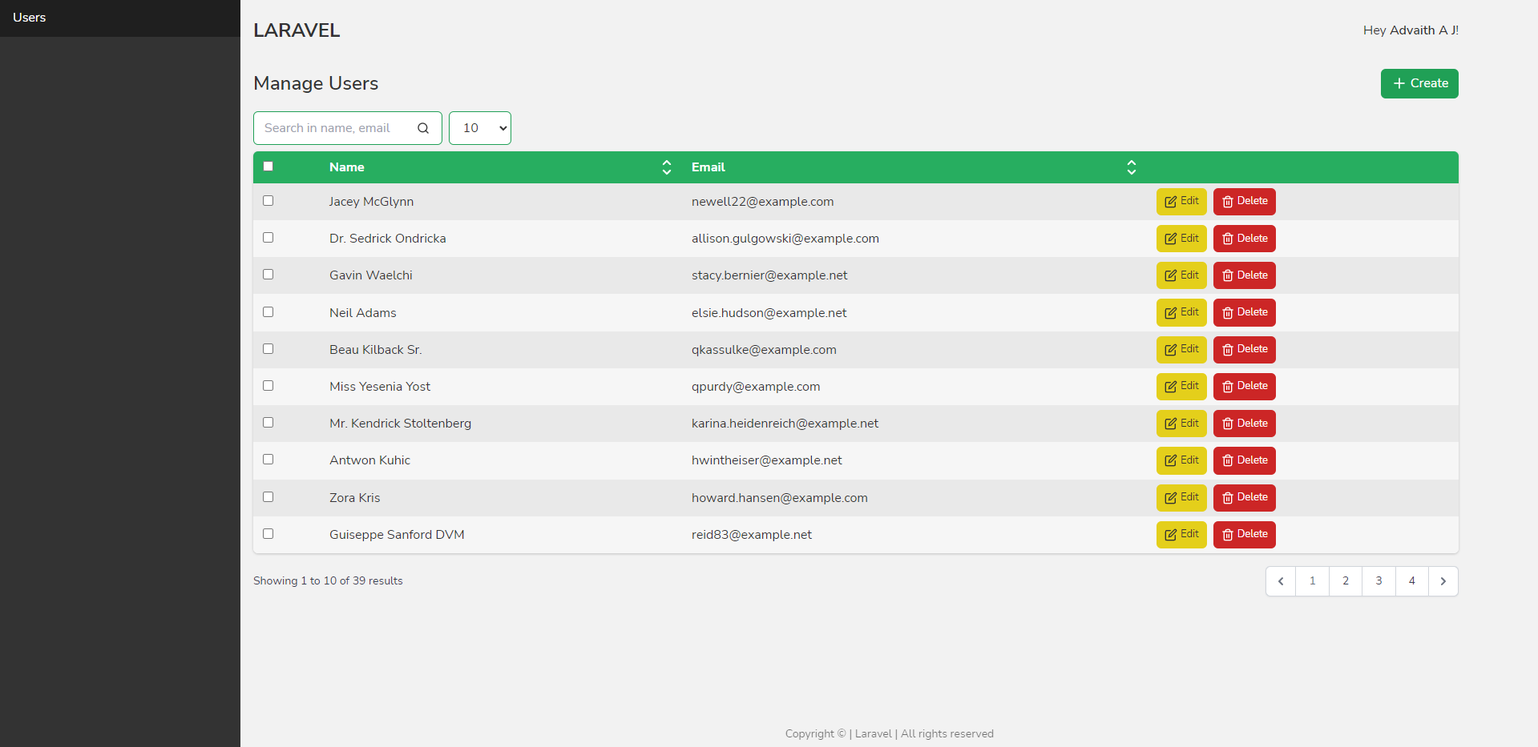
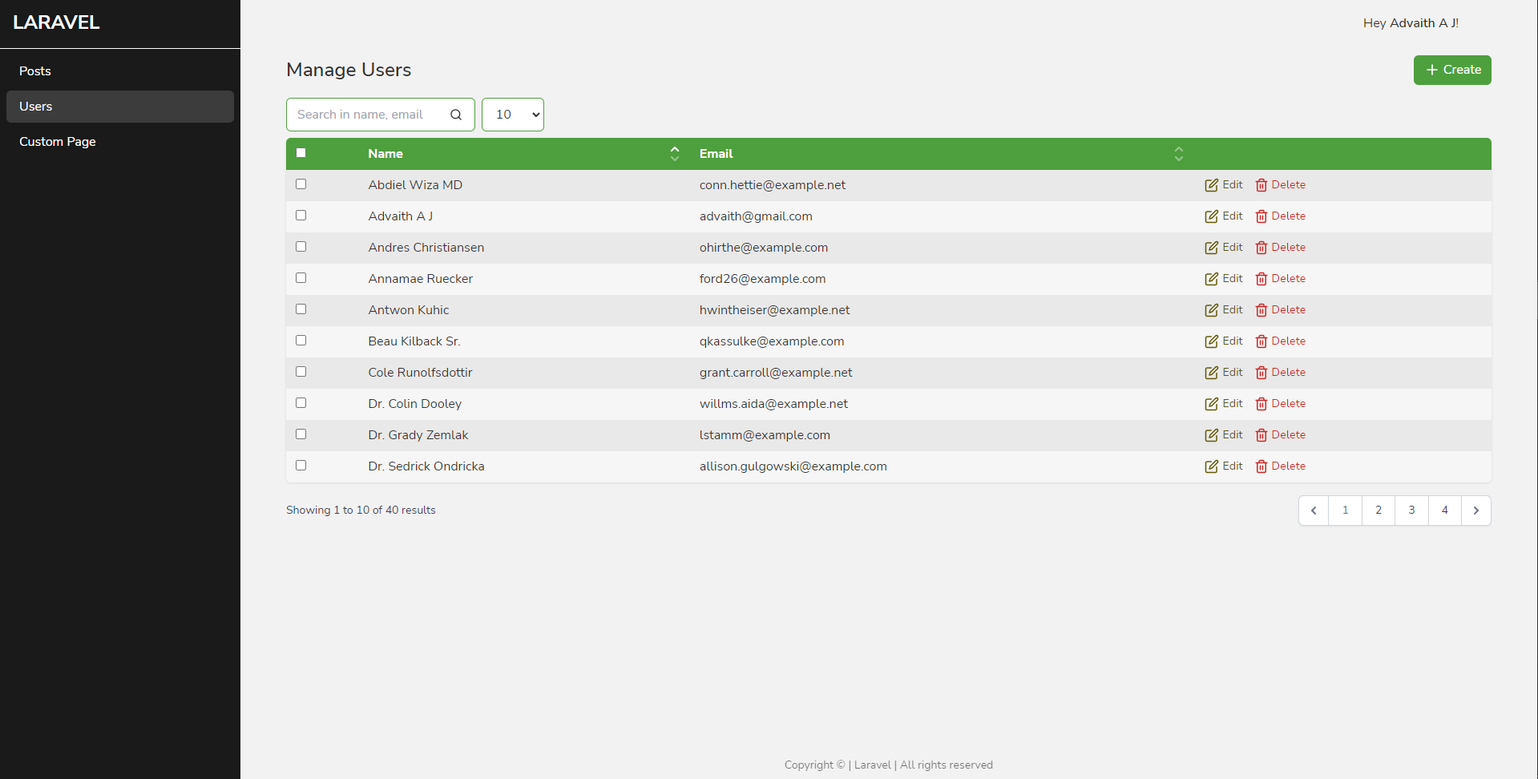
ui update

diff --git a/src/resources/assets/css/app.css b/src/resources/assets/css/app.css
@@ -1,1 +1,1 @@
-/*! tailwindcss v3.0.23 | MIT License | https://tailwindcss.com*/*,:after,:before{border:0 solid #e5e7eb;box-sizing:border-box}:after,:before{--tw-content:""}html{-webkit-text-size-adjust:100%;font-family:ui-sans-serif,system-ui,-apple-system,BlinkMacSystemFont,Segoe UI,Roboto,Helvetica Neue,Arial,Noto Sans,sans-serif,Apple Color Emoji,Segoe UI Emoji,Segoe UI Symbol,Noto Color Emoji;line-height:1.5;-moz-tab-size:4;-o-tab-size:4;tab-size:4}body{line-height:inherit;margin:0}hr{border-top-width:1px;color:inherit;height:0}abbr:where([title]){-webkit-text-decoration:underline dotted;text-decoration:underline dotted}h1,h2,h3,h4,h5,h6{font-size:inherit;font-weight:inherit}a{color:inherit;text-decoration:inherit}b,strong{font-weight:bolder}code,kbd,pre,samp{font-family:ui-monospace,SFMono-Regular,Menlo,Monaco,Consolas,Liberation Mono,Courier New,monospace;font-size:1em}small{font-size:80%}sub,sup{font-size:75%;line-height:0;position:relative;vertical-align:baseline}sub{bottom:-.25em}sup{top:-.5em}table{border-collapse:collapse;border-color:inherit;text-indent:0}button,input,optgroup,select,textarea{color:inherit;font-family:inherit;font-size:100%;line-height:inherit;margin:0;padding:0}button,select{text-transform:none}[type=button],[type=reset],[type=submit],button{-webkit-appearance:button;background-color:transparent;background-image:none}:-moz-focusring{outline:auto}:-moz-ui-invalid{box-shadow:none}progress{vertical-align:baseline}::-webkit-inner-spin-button,::-webkit-outer-spin-button{height:auto}[type=search]{-webkit-appearance:textfield;outline-offset:-2px}::-webkit-search-decoration{-webkit-appearance:none}::-webkit-file-upload-button{-webkit-appearance:button;font:inherit}summary{display:list-item}blockquote,dd,dl,figure,h1,h2,h3,h4,h5,h6,hr,p,pre{margin:0}fieldset{margin:0}fieldset,legend{padding:0}menu,ol,ul{list-style:none;margin:0;padding:0}textarea{resize:vertical}input::-moz-placeholder,textarea::-moz-placeholder{color:#9ca3af;opacity:1}input:-ms-input-placeholder,textarea:-ms-input-placeholder{color:#9ca3af;opacity:1}input::placeholder,textarea::placeholder{color:#9ca3af;opacity:1}[role=button],button{cursor:pointer}:disabled{cursor:default}audio,canvas,embed,iframe,img,object,svg,video{display:block;vertical-align:middle}img,video{height:auto;max-width:100%}[hidden]{display:none}*,:after,:before{--tw-translate-x:0;--tw-translate-y:0;--tw-rotate:0;--tw-skew-x:0;--tw-skew-y:0;--tw-scale-x:1;--tw-scale-y:1;--tw-pan-x: ;--tw-pan-y: ;--tw-pinch-zoom: ;--tw-scroll-snap-strictness:proximity;--tw-ordinal: ;--tw-slashed-zero: ;--tw-numeric-figure: ;--tw-numeric-spacing: ;--tw-numeric-fraction: ;--tw-ring-inset: ;--tw-ring-offset-width:0px;--tw-ring-offset-color:#fff;--tw-ring-color:rgba(59,130,246,.5);--tw-ring-offset-shadow:0 0 #0000;--tw-ring-shadow:0 0 #0000;--tw-shadow:0 0 #0000;--tw-shadow-colored:0 0 #0000;--tw-blur: ;--tw-brightness: ;--tw-contrast: ;--tw-grayscale: ;--tw-hue-rotate: ;--tw-invert: ;--tw-saturate: ;--tw-sepia: ;--tw-drop-shadow: ;--tw-backdrop-blur: ;--tw-backdrop-brightness: ;--tw-backdrop-contrast: ;--tw-backdrop-grayscale: ;--tw-backdrop-hue-rotate: ;--tw-backdrop-invert: ;--tw-backdrop-opacity: ;--tw-backdrop-saturate: ;--tw-backdrop-sepia: }.container{width:100%}@media (min-width:640px){.container{max-width:640px}}@media (min-width:768px){.container{max-width:768px}}@media (min-width:1024px){.container{max-width:1024px}}@media (min-width:1280px){.container{max-width:1280px}}@media (min-width:1536px){.container{max-width:1536px}}.absolute{position:absolute}.relative{position:relative}.top-full{top:100%}.left-0{left:0}.z-0{z-index:0}.col-span-2{grid-column:span 2/span 2}.my-8{margin-bottom:2rem;margin-top:2rem}.my-2{margin-bottom:.5rem}.mt-2,.my-2{margin-top:.5rem}.mb-1{margin-bottom:.25rem}.mt-4{margin-top:1rem}.ml-4{margin-left:1rem}.mr-2{margin-right:.5rem}.mb-2{margin-bottom:.5rem}.mb-4{margin-bottom:1rem}.mt-1{margin-top:.25rem}.ml-3{margin-left:.75rem}.-ml-px{margin-left:-1px}.flex{display:flex}.inline-flex{display:inline-flex}.table{display:table}.grid{display:grid}.hidden{display:none}.h-5{height:1.25rem}.max-h-48{max-height:12rem}.w-full{width:100%}.w-5{width:1.25rem}.flex-1{flex:1 1 0%}.cursor-default{cursor:default}.cursor-pointer{cursor:pointer}.list-inside{list-style-position:inside}.list-decimal{list-style-type:decimal}.grid-cols-2{grid-template-columns:repeat(2,minmax(0,1fr))}.grid-cols-1{grid-template-columns:repeat(1,minmax(0,1fr))}.flex-col{flex-direction:column}.items-center{align-items:center}.justify-end{justify-content:flex-end}.justify-between{justify-content:space-between}.justify-items-center{justify-items:center}.gap-2{gap:.5rem}.gap-1{gap:.25rem}.overflow-auto{overflow:auto}.rounded{border-radius:.25rem}.rounded-md{border-radius:.375rem}.rounded-l-md{border-bottom-left-radius:.375rem;border-top-left-radius:.375rem}.rounded-r-md{border-bottom-right-radius:.375rem;border-top-right-radius:.375rem}.border{border-width:1px}.border-gray-300{--tw-border-opacity:1;border-color:rgb(209 213 219/var(--tw-border-opacity))}.bg-white{--tw-bg-opacity:1;background-color:rgb(255 255 255/var(--tw-bg-opacity))}.p-1{padding:.25rem}.p-2{padding:.5rem}.py-2{padding-bottom:.5rem;padding-top:.5rem}.px-4{padding-left:1rem;padding-right:1rem}.py-6{padding-bottom:1.5rem;padding-top:1.5rem}.px-2{padding-left:.5rem;padding-right:.5rem}.text-center{text-align:center}.text-4xl{font-size:2.25rem;line-height:2.5rem}.text-xl{font-size:1.25rem;line-height:1.75rem}.text-2xl{font-size:1.5rem;line-height:2rem}.text-sm{font-size:.875rem;line-height:1.25rem}.font-semibold{font-weight:600}.font-bold{font-weight:700}.font-medium{font-weight:500}.uppercase{text-transform:uppercase}.leading-5{line-height:1.25rem}.text-gray-500{--tw-text-opacity:1;color:rgb(107 114 128/var(--tw-text-opacity))}.text-gray-700{--tw-text-opacity:1;color:rgb(55 65 81/var(--tw-text-opacity))}.opacity-70{opacity:.7}.opacity-60{opacity:.6}.shadow{--tw-shadow:0 1px 3px 0 rgba(0,0,0,.1),0 1px 2px -1px rgba(0,0,0,.1);--tw-shadow-colored:0 1px 3px 0 var(--tw-shadow-color),0 1px 2px -1px var(--tw-shadow-color)}.shadow,.shadow-sm{box-shadow:var(--tw-ring-offset-shadow,0 0 #0000),var(--tw-ring-shadow,0 0 #0000),var(--tw-shadow)}.shadow-sm{--tw-shadow:0 1px 2px 0 rgba(0,0,0,.05);--tw-shadow-colored:0 1px 2px 0 var(--tw-shadow-color)}.ring-gray-300{--tw-ring-opacity:1;--tw-ring-color:rgb(209 213 219/var(--tw-ring-opacity))}.transition{transition-property:color,background-color,border-color,fill,stroke,opacity,box-shadow,transform,filter,-webkit-text-decoration-color,-webkit-backdrop-filter;transition-property:color,background-color,border-color,text-decoration-color,fill,stroke,opacity,box-shadow,transform,filter,backdrop-filter;transition-property:color,background-color,border-color,text-decoration-color,fill,stroke,opacity,box-shadow,transform,filter,backdrop-filter,-webkit-text-decoration-color,-webkit-backdrop-filter;transition-timing-function:cubic-bezier(.4,0,.2,1)}.duration-150,.transition{transition-duration:.15s}.ease-in-out{transition-timing-function:cubic-bezier(.4,0,.2,1)}body{font-family:Nunito Sans,Segoe UI,sans-serif;line-height:1.5}h1,h2,h3,h4{line-height:1}[v-cloak]{display:none}:root{--seamless-sidebar-background:#333;--seamless-sidebar-color:#fff;--seamless-background:#f2f2f2;--seamless-color:#333}.btn{align-items:center;background:#20a056;border:none;border-radius:6px;color:#fff;cursor:pointer;display:flex;font-size:1rem;outline:none;padding:.4em .8em;transition:background .2s ease}.btn svg{display:inline-block;margin-right:4px;width:1.25em}.btn:focus,.btn:hover{background:#18763f}.btn.grey{background:#444;color:#fff}.btn.grey:focus,.btn.grey:hover{background:#2b2b2b}.btn.yellow{background:#e4cf1b;color:#333}.btn.yellow:focus,.btn.yellow:hover{background:#b6a616}.btn.red{background:#cc2626;color:#fff}.btn.red:focus,.btn.red:hover{background:#a11e1e}.btn.small{font-size:.8rem}.input{background:#fff;border:1px solid #20a056;border-radius:6px;height:100%;outline:none;padding:.5em .8em}.table{border-radius:6px;box-shadow:0 1px 3px rgba(0,0,0,.2);overflow:hidden;text-align:left;width:100%}.table tr td{background:#f6f6f6;cursor:pointer;transition:background .2s}.table tr:nth-of-type(odd) td{background:#e9e9e9}.table tr:hover td{background:#ddd}.table thead tr th{background:#27ae60;color:#fff;font-weight:900}.table td,.table th{padding:6px 12px}.search{position:relative}.search input{padding-right:34px}.search .icon{cursor:pointer;position:absolute;right:1rem;top:50%;transform:translateY(-50%)}.search .icon svg{width:16px}.sort{cursor:pointer}.sort svg{height:14px;width:14px}.sort svg.up{transform:translateY(1px) scale(1.2)}.sort svg.down{transform:translateY(-1px) scale(1.2)}.sort.down svg.up,.sort.light svg,.sort.up svg.down{opacity:.4}body{background:var(--seamless-background);color:var(--seamless-color);display:grid;grid-template-columns:300px 1fr;min-height:100vh}#main{display:flex;flex-direction:column}#footer{font-size:14px;margin-top:auto;opacity:.7;text-align:center}#sidebar{background:var(--seamless-sidebar-background);color:var(--seamless-sidebar-color);overflow-y:auto;position:-webkit-sticky;position:sticky;top:0}#sidebar ul a{display:flex;padding:.65rem 1rem;transition:background .25s ease;width:100%}#sidebar ul a:hover{background:rgba(0,0,0,.2)}#sidebar ul a.active{background:rgba(0,0,0,.4)}#sidebar ul li.blank{padding:.75rem 1rem}.hover\:bg-gray-200:hover{--tw-bg-opacity:1;background-color:rgb(229 231 235/var(--tw-bg-opacity))}.hover\:text-gray-500:hover{--tw-text-opacity:1;color:rgb(107 114 128/var(--tw-text-opacity))}.hover\:text-gray-400:hover{--tw-text-opacity:1;color:rgb(156 163 175/var(--tw-text-opacity))}.focus\:z-10:focus{z-index:10}.focus\:border-blue-300:focus{--tw-border-opacity:1;border-color:rgb(147 197 253/var(--tw-border-opacity))}.focus\:outline-none:focus{outline:2px solid transparent;outline-offset:2px}.focus\:ring:focus{--tw-ring-offset-shadow:var(--tw-ring-inset) 0 0 0 var(--tw-ring-offset-width) var(--tw-ring-offset-color);--tw-ring-shadow:var(--tw-ring-inset) 0 0 0 calc(3px + var(--tw-ring-offset-width)) var(--tw-ring-color);box-shadow:var(--tw-ring-offset-shadow),var(--tw-ring-shadow),var(--tw-shadow,0 0 #0000)}.active\:bg-gray-100:active{--tw-bg-opacity:1;background-color:rgb(243 244 246/var(--tw-bg-opacity))}.active\:text-gray-700:active{--tw-text-opacity:1;color:rgb(55 65 81/var(--tw-text-opacity))}.active\:text-gray-500:active{--tw-text-opacity:1;color:rgb(107 114 128/var(--tw-text-opacity))}@media (min-width:640px){.sm\:flex{display:flex}.sm\:hidden{display:none}.sm\:flex-1{flex:1 1 0%}.sm\:items-center{align-items:center}.sm\:justify-between{justify-content:space-between}}
+/*! tailwindcss v3.0.23 | MIT License | https://tailwindcss.com*/*,:after,:before{border:0 solid #e5e7eb;box-sizing:border-box}:after,:before{--tw-content:""}html{-webkit-text-size-adjust:100%;font-family:ui-sans-serif,system-ui,-apple-system,BlinkMacSystemFont,Segoe UI,Roboto,Helvetica Neue,Arial,Noto Sans,sans-serif,Apple Color Emoji,Segoe UI Emoji,Segoe UI Symbol,Noto Color Emoji;line-height:1.5;-moz-tab-size:4;-o-tab-size:4;tab-size:4}body{line-height:inherit;margin:0}hr{border-top-width:1px;color:inherit;height:0}abbr:where([title]){-webkit-text-decoration:underline dotted;text-decoration:underline dotted}h1,h2,h3,h4,h5,h6{font-size:inherit;font-weight:inherit}a{color:inherit;text-decoration:inherit}b,strong{font-weight:bolder}code,kbd,pre,samp{font-family:ui-monospace,SFMono-Regular,Menlo,Monaco,Consolas,Liberation Mono,Courier New,monospace;font-size:1em}small{font-size:80%}sub,sup{font-size:75%;line-height:0;position:relative;vertical-align:baseline}sub{bottom:-.25em}sup{top:-.5em}table{border-collapse:collapse;border-color:inherit;text-indent:0}button,input,optgroup,select,textarea{color:inherit;font-family:inherit;font-size:100%;line-height:inherit;margin:0;padding:0}button,select{text-transform:none}[type=button],[type=reset],[type=submit],button{-webkit-appearance:button;background-color:transparent;background-image:none}:-moz-focusring{outline:auto}:-moz-ui-invalid{box-shadow:none}progress{vertical-align:baseline}::-webkit-inner-spin-button,::-webkit-outer-spin-button{height:auto}[type=search]{-webkit-appearance:textfield;outline-offset:-2px}::-webkit-search-decoration{-webkit-appearance:none}::-webkit-file-upload-button{-webkit-appearance:button;font:inherit}summary{display:list-item}blockquote,dd,dl,figure,h1,h2,h3,h4,h5,h6,hr,p,pre{margin:0}fieldset{margin:0}fieldset,legend{padding:0}menu,ol,ul{list-style:none;margin:0;padding:0}textarea{resize:vertical}input::-moz-placeholder,textarea::-moz-placeholder{color:#9ca3af;opacity:1}input:-ms-input-placeholder,textarea:-ms-input-placeholder{color:#9ca3af;opacity:1}input::placeholder,textarea::placeholder{color:#9ca3af;opacity:1}[role=button],button{cursor:pointer}:disabled{cursor:default}audio,canvas,embed,iframe,img,object,svg,video{display:block;vertical-align:middle}img,video{height:auto;max-width:100%}[hidden]{display:none}*,:after,:before{--tw-translate-x:0;--tw-translate-y:0;--tw-rotate:0;--tw-skew-x:0;--tw-skew-y:0;--tw-scale-x:1;--tw-scale-y:1;--tw-pan-x: ;--tw-pan-y: ;--tw-pinch-zoom: ;--tw-scroll-snap-strictness:proximity;--tw-ordinal: ;--tw-slashed-zero: ;--tw-numeric-figure: ;--tw-numeric-spacing: ;--tw-numeric-fraction: ;--tw-ring-inset: ;--tw-ring-offset-width:0px;--tw-ring-offset-color:#fff;--tw-ring-color:rgba(59,130,246,.5);--tw-ring-offset-shadow:0 0 #0000;--tw-ring-shadow:0 0 #0000;--tw-shadow:0 0 #0000;--tw-shadow-colored:0 0 #0000;--tw-blur: ;--tw-brightness: ;--tw-contrast: ;--tw-grayscale: ;--tw-hue-rotate: ;--tw-invert: ;--tw-saturate: ;--tw-sepia: ;--tw-drop-shadow: ;--tw-backdrop-blur: ;--tw-backdrop-brightness: ;--tw-backdrop-contrast: ;--tw-backdrop-grayscale: ;--tw-backdrop-hue-rotate: ;--tw-backdrop-invert: ;--tw-backdrop-opacity: ;--tw-backdrop-saturate: ;--tw-backdrop-sepia: }.container{width:100%}@media (min-width:640px){.container{max-width:640px}}@media (min-width:768px){.container{max-width:768px}}@media (min-width:1024px){.container{max-width:1024px}}@media (min-width:1280px){.container{max-width:1280px}}@media (min-width:1536px){.container{max-width:1536px}}.absolute{position:absolute}.relative{position:relative}.top-full{top:100%}.left-0{left:0}.z-0{z-index:0}.col-span-2{grid-column:span 2/span 2}.my-8{margin-bottom:2rem;margin-top:2rem}.mx-auto{margin-left:auto;margin-right:auto}.my-2{margin-bottom:.5rem}.mt-2,.my-2{margin-top:.5rem}.mb-1{margin-bottom:.25rem}.mt-4{margin-top:1rem}.ml-4{margin-left:1rem}.mr-2{margin-right:.5rem}.mb-2{margin-bottom:.5rem}.mb-4{margin-bottom:1rem}.mt-1{margin-top:.25rem}.ml-3{margin-left:.75rem}.-ml-px{margin-left:-1px}.flex{display:flex}.inline-flex{display:inline-flex}.table{display:table}.grid{display:grid}.hidden{display:none}.h-5{height:1.25rem}.max-h-48{max-height:12rem}.w-full{width:100%}.w-5{width:1.25rem}.flex-1{flex:1 1 0%}.cursor-default{cursor:default}.cursor-pointer{cursor:pointer}.list-inside{list-style-position:inside}.list-decimal{list-style-type:decimal}.grid-cols-2{grid-template-columns:repeat(2,minmax(0,1fr))}.grid-cols-1{grid-template-columns:repeat(1,minmax(0,1fr))}.flex-col{flex-direction:column}.items-center{align-items:center}.justify-end{justify-content:flex-end}.justify-between{justify-content:space-between}.justify-items-center{justify-items:center}.gap-2{gap:.5rem}.gap-3{gap:.75rem}.gap-1{gap:.25rem}.overflow-auto{overflow:auto}.rounded{border-radius:.25rem}.rounded-md{border-radius:.375rem}.rounded-l-md{border-bottom-left-radius:.375rem;border-top-left-radius:.375rem}.rounded-r-md{border-bottom-right-radius:.375rem;border-top-right-radius:.375rem}.border{border-width:1px}.border-gray-300{--tw-border-opacity:1;border-color:rgb(209 213 219/var(--tw-border-opacity))}.bg-white{--tw-bg-opacity:1;background-color:rgb(255 255 255/var(--tw-bg-opacity))}.p-4{padding:1rem}.p-1{padding:.25rem}.p-2{padding:.5rem}.py-2{padding-bottom:.5rem;padding-top:.5rem}.px-4{padding-left:1rem;padding-right:1rem}.px-2{padding-left:.5rem;padding-right:.5rem}.text-center{text-align:center}.text-2xl{font-size:1.5rem;line-height:2rem}.text-4xl{font-size:2.25rem;line-height:2.5rem}.text-xl{font-size:1.25rem;line-height:1.75rem}.text-sm{font-size:.875rem;line-height:1.25rem}.font-bold{font-weight:700}.font-semibold{font-weight:600}.font-medium{font-weight:500}.uppercase{text-transform:uppercase}.leading-5{line-height:1.25rem}.text-gray-500{--tw-text-opacity:1;color:rgb(107 114 128/var(--tw-text-opacity))}.text-gray-700{--tw-text-opacity:1;color:rgb(55 65 81/var(--tw-text-opacity))}.opacity-70{opacity:.7}.opacity-60{opacity:.6}.shadow{--tw-shadow:0 1px 3px 0 rgba(0,0,0,.1),0 1px 2px -1px rgba(0,0,0,.1);--tw-shadow-colored:0 1px 3px 0 var(--tw-shadow-color),0 1px 2px -1px var(--tw-shadow-color)}.shadow,.shadow-sm{box-shadow:var(--tw-ring-offset-shadow,0 0 #0000),var(--tw-ring-shadow,0 0 #0000),var(--tw-shadow)}.shadow-sm{--tw-shadow:0 1px 2px 0 rgba(0,0,0,.05);--tw-shadow-colored:0 1px 2px 0 var(--tw-shadow-color)}.ring-gray-300{--tw-ring-opacity:1;--tw-ring-color:rgb(209 213 219/var(--tw-ring-opacity))}.transition{transition-property:color,background-color,border-color,fill,stroke,opacity,box-shadow,transform,filter,-webkit-text-decoration-color,-webkit-backdrop-filter;transition-property:color,background-color,border-color,text-decoration-color,fill,stroke,opacity,box-shadow,transform,filter,backdrop-filter;transition-property:color,background-color,border-color,text-decoration-color,fill,stroke,opacity,box-shadow,transform,filter,backdrop-filter,-webkit-text-decoration-color,-webkit-backdrop-filter;transition-timing-function:cubic-bezier(.4,0,.2,1)}.duration-150,.transition{transition-duration:.15s}.ease-in-out{transition-timing-function:cubic-bezier(.4,0,.2,1)}body{font-family:Nunito Sans,Segoe UI,sans-serif;line-height:1.5}h1,h2,h3,h4{line-height:1}[v-cloak]{display:none}:root{--seamless-sidebar-background:#191a19;--seamless-sidebar-color:#fff;--seamless-background:#f2f2f2;--seamless-color:#333}.btn{align-items:center;background:#4e9f3d;border:none;border-radius:6px;color:#fff;cursor:pointer;display:flex;font-size:1rem;outline:none;padding:.4em .8em;transition:background .2s ease}.btn svg{display:inline-block;margin-right:4px;width:1.25em}.btn:focus,.btn:hover{background:#3c7a2f}.btn.grey{background:#444;color:#fff}.btn.grey:focus,.btn.grey:hover{background:#2b2b2b}.btn.yellow{background:#e4cf1b;color:#333}.btn.yellow:focus,.btn.yellow:hover{background:#b6a616}.btn.red{background:#cc2626;color:#fff}.btn.red:focus,.btn.red:hover{background:#a11e1e}.btn.link.yellow{background:transparent;border-bottom:1px solid transparent;border-radius:0;color:#615803;padding:1px;transition:border-bottom-color .15s}.btn.link.yellow:hover{border-bottom-color:#615803}.btn.link.red{background:transparent;border-bottom:1px solid transparent;border-radius:0;color:#cc2626;padding:1px;transition:border-bottom-color .15s}.btn.link.red:hover{border-bottom-color:#cc2626}.btn.small{font-size:.9rem}.input{background:#fff;border:1px solid #4e9f3d;border-radius:6px;height:100%;outline:none;padding:.5em .8em}.table{border-radius:6px;box-shadow:0 1px 3px rgba(0,0,0,.1);overflow:hidden;text-align:left;white-space:nowrap;width:100%}.table tr td{background:#f6f6f6;cursor:pointer;transition:background .2s}.table tr:nth-of-type(odd) td{background:#e9e9e9}.table tr:hover td{background:#ddd}.table thead tr th{background:#4e9f3d;color:#fff;font-weight:900}.table td,.table th{padding:6px 12px}.search{position:relative}.search input{padding-right:34px}.search .icon{cursor:pointer;position:absolute;right:1rem;top:50%;transform:translateY(-50%)}.search .icon svg{width:16px}.sort{cursor:pointer}.sort svg{height:14px;width:14px}.sort svg.up{transform:translateY(1px) scale(1.2)}.sort svg.down{transform:translateY(-1px) scale(1.2)}.sort.down svg.up,.sort.light svg,.sort.up svg.down{opacity:.4}body{background:var(--seamless-background);color:var(--seamless-color);display:grid;grid-template-columns:300px 1fr;grid-template-rows:auto 1fr;min-height:100vh}#main{display:flex;flex-direction:column}#footer{font-size:14px;margin-top:auto;opacity:.7;text-align:center}#logo{border-bottom:1px solid var(--seamless-sidebar-color)}#logo,#sidebar{background:var(--seamless-sidebar-background);color:var(--seamless-sidebar-color)}#sidebar{overflow-y:auto;position:-webkit-sticky;position:sticky;top:0}#sidebar ul{padding:.25rem 0}#sidebar ul li{padding:0 .5rem}#sidebar ul li.blank{padding:.75rem 1rem}#sidebar ul li a{border-radius:6px;display:flex;margin:.25rem 0;padding:.5rem 1rem;transition:background .25s ease;width:100%}#sidebar ul li a:hover{background:hsla(0,0%,100%,.1)}#sidebar ul li a.active{background:hsla(0,0%,100%,.15)}.hover\:bg-gray-200:hover{--tw-bg-opacity:1;background-color:rgb(229 231 235/var(--tw-bg-opacity))}.hover\:text-gray-500:hover{--tw-text-opacity:1;color:rgb(107 114 128/var(--tw-text-opacity))}.hover\:text-gray-400:hover{--tw-text-opacity:1;color:rgb(156 163 175/var(--tw-text-opacity))}.focus\:z-10:focus{z-index:10}.focus\:border-blue-300:focus{--tw-border-opacity:1;border-color:rgb(147 197 253/var(--tw-border-opacity))}.focus\:outline-none:focus{outline:2px solid transparent;outline-offset:2px}.focus\:ring:focus{--tw-ring-offset-shadow:var(--tw-ring-inset) 0 0 0 var(--tw-ring-offset-width) var(--tw-ring-offset-color);--tw-ring-shadow:var(--tw-ring-inset) 0 0 0 calc(3px + var(--tw-ring-offset-width)) var(--tw-ring-color);box-shadow:var(--tw-ring-offset-shadow),var(--tw-ring-shadow),var(--tw-shadow,0 0 #0000)}.active\:bg-gray-100:active{--tw-bg-opacity:1;background-color:rgb(243 244 246/var(--tw-bg-opacity))}.active\:text-gray-700:active{--tw-text-opacity:1;color:rgb(55 65 81/var(--tw-text-opacity))}.active\:text-gray-500:active{--tw-text-opacity:1;color:rgb(107 114 128/var(--tw-text-opacity))}@media (min-width:640px){.sm\:flex{display:flex}.sm\:hidden{display:none}.sm\:flex-1{flex:1 1 0%}.sm\:items-center{align-items:center}.sm\:justify-between{justify-content:space-between}}

diff --git a/src/resources/assets/src/scss/_layout.scss b/src/resources/assets/src/scss/_layout.scss
@@ -5,6 +5,7 @@ body {
 
     display: grid;
     grid-template-columns: 300px 1fr;
+    grid-template-rows: auto 1fr;
 }
 
 #main {
@@ -19,6 +20,12 @@ body {
     font-size: 14px;
 }
 
+#logo {
+    background: var(--seamless-sidebar-background);
+    color: var(--seamless-sidebar-color);
+    border-bottom: 1px solid var(--seamless-sidebar-color);
+}
+
 #sidebar {
     background: var(--seamless-sidebar-background);
     color: var(--seamless-sidebar-color);
@@ -26,23 +33,33 @@ body {
     top: 0;
     overflow-y: auto;
 
-    ul a {
-        display: flex;
-        width: 100%;
-        padding: 0.65rem 1rem;
-        transition: background 250ms ease;
+    ul {
+        padding: 0.25rem 0;
 
-        &:hover {
-            background: rgba(0, 0, 0, .2);
+        li {
+            padding: 0 0.5rem;
+
+            &.blank {
+                padding: 0.75rem 1rem;
+            }
+
+            a {
+                display: flex;
+                width: 100%;
+                padding: 0.5rem 1rem;
+                transition: background 250ms ease;
+                border-radius: 6px;
+                margin: 0.25rem 0;
+
+                &:hover {
+                    background: rgba(255, 255, 255, .1);
+                }
+
+                &.active {
+                    background: rgba(255, 255, 255, .15);
+                }
+            }
         }
-
-        &.active {
-            background: rgba(0, 0, 0, .4);
-        }
-    }
-
-    ul li.blank {
-        padding: 0.75rem 1rem;
     }
 }
 

diff --git a/src/resources/assets/src/scss/_helper.scss b/src/resources/assets/src/scss/_helper.scss
@@ -1,4 +1,4 @@
-$green: #20a056;
+$green: #4E9F3D;
 $grey: #444;
 $yellow: #e4cf1b;
 $red: #cc2626;
@@ -9,6 +9,19 @@ $border-radius: 6px;
         background: $color;
         color: $font;
         &:hover, &:focus { background: darken($color, 10%); }
+    }
+}
+
+@mixin link-variant($color, $name) {
+    &.#{$name} {
+        background: transparent;
+        color: $color;
+        border-bottom: 1px solid transparent;
+        transition: border-bottom-color 150ms;
+        padding: 1px;
+        border-radius: 0;
+
+        &:hover { border-bottom-color: $color; }
     }
 }
 
@@ -37,7 +50,12 @@ $border-radius: 6px;
     @include variant($yellow, 'yellow', #333);
     @include variant($red, 'red');
 
-    &.small { font-size: 0.8rem; }
+    &.link {
+        @include link-variant(#615803, 'yellow');
+        @include link-variant($red, 'red');
+    }
+
+    &.small { font-size: 0.9rem; }
 }
 
 .input {
@@ -51,10 +69,11 @@ $border-radius: 6px;
 
 .table {
     width: 100%;
-    box-shadow: 0 1px 3px rgba(0, 0, 0, 0.2);
+    box-shadow: 0 1px 3px rgba(0, 0, 0, 0.1);
     text-align: left;
     border-radius: $border-radius;
     overflow: hidden;
+    white-space: nowrap;
 
     tr td {
         background: #f6f6f6;
@@ -67,7 +86,7 @@ $border-radius: 6px;
     thead tr th {
         font-weight: 900;
         color: #ffffff;
-        background: #27ae60;
+        background: $green;
     }
 
     th, td {

diff --git a/src/resources/assets/src/scss/_variables.scss b/src/resources/assets/src/scss/_variables.scss
@@ -1,5 +1,5 @@
 :root {
-    --seamless-sidebar-background: #333;
+    --seamless-sidebar-background: #191A19;
     --seamless-sidebar-color: #fff;
     --seamless-background: #f2f2f2;
     --seamless-color: #333;

diff --git a/src/resources/views/type/index.blade.php b/src/resources/views/type/index.blade.php
@@ -3,7 +3,7 @@
     $instance = new $type;
 @endphp
 
-@extends('seamless::layout')
+@extends(config('seamless-admin.layout'))
 
 @section('title', "Manage $name")
 
@@ -12,7 +12,7 @@
 @endsection
 
 @section('content')
-    <div class="container px-4 py-2" id="app">
+    <div class="container mx-auto px-4 py-2" id="app">
         <div class="flex justify-between items-center">
             <h2 class="text-2xl font-semibold">
                 Manage {{ $name }}
@@ -120,11 +120,11 @@
                         <td>{{ $row[$f] }}</td>
                     @endforeach
                     <td>
-                        <div class="flex gap-2">
+                        <div class="flex gap-3">
                             @if($instance->adminCanAccessEdit())
                                 <a
                                     href="{{ route('admin.type.edit', [request()->type, $row->getKey()]) }}"
-                                    class="btn yellow small"
+                                    class="btn yellow small link"
                                     v-on:click.stop
                                 >
                                     <i data-feather="edit"></i>
@@ -134,7 +134,7 @@
                             @if($instance->adminCanAccessDelete())
                                 <a
                                     href="{{ route('admin.type.delete', [request()->type, 'ids' => [$row->getKey()]]) }}"
-                                    class="btn red small"
+                                    class="btn red small link"
                                     v-on:click.stop
                                 >
                                     <i data-feather="trash-2"></i>

diff --git a/src/ModelResolver.php b/src/ModelResolver.php
@@ -96,7 +96,13 @@ class ModelResolver
     // get the models registered
     public function getModels(): array
     {
-        return array_filter($this->models, fn($model) => (new $model)->hasAdminPage !== false);
+        return array_filter(
+            $this->models,
+            function ($model) {
+                $instance = new $model;
+                return $instance->hasAdminPage !== false && $instance->adminCanAccessIndex();
+            }
+        );
     }
 
     // function to get column information from the table

diff --git a/src/resources/views/type/delete.blade.php b/src/resources/views/type/delete.blade.php
@@ -1,11 +1,11 @@
 @php $name = str(class_basename($type))->plural(); @endphp
 
-@extends('seamless::layout')
+@extends(config('seamless-admin.layout'))
 
 @section('title', "Delete $name")
 
 @section('content')
-    <div class="container px-4 py-2" id="app">
+    <div class="container mx-auto px-4 py-2" id="app">
         <div class="flex justify-between items-center">
             <h2 class="text-2xl font-semibold">
                 Delete {{ $name }}

diff --git a/src/resources/views/layout.blade.php b/src/resources/views/layout.blade.php
@@ -4,11 +4,15 @@
     @include('seamless::partials.header')
 </head>
 <body>
+    <div class="uppercase font-bold text-2xl p-4" id="logo">
+        <a href="{{ url('') }}">{{ config('app.name') }}</a>
+    </div>
+
+    @include('seamless::partials.navbar')
+
     @include('seamless::partials.sidebar')
 
     <main id="main">
-        @include('seamless::partials.navbar')
-
         @yield('content')
 
         @include('seamless::partials.footer')

diff --git a/src/resources/views/type/create.blade.php b/src/resources/views/type/create.blade.php
@@ -1,6 +1,6 @@
 @php $name = class_basename($type); @endphp
 
-@extends('seamless::layout')
+@extends(config('seamless-admin.layout'))
 
 @section('title', "Create $name")
 
@@ -9,7 +9,7 @@
 @endsection
 
 @section('content')
-    <div class="container px-4 py-2" id="app">
+    <div class="container mx-auto px-4 py-2" id="app">
         <h2 class="text-2xl font-semibold">
             Create {{ $name }}
         </h2>

diff --git a/src/resources/views/type/edit.blade.php b/src/resources/views/type/edit.blade.php
@@ -1,6 +1,6 @@
 @php $name = class_basename($type); @endphp
 
-@extends('seamless::layout')
+@extends(config('seamless-admin.layout'))
 
 @section('title', "Edit $name")
 
@@ -9,7 +9,7 @@
 @endsection
 
 @section('content')
-    <div class="container px-4 py-2" id="app">
+    <div class="container mx-auto px-4 py-2" id="app">
         <h2 class="text-2xl font-semibold">
             Edit {{ $name }}
         </h2>

diff --git a/src/resources/views/partials/navbar.blade.php b/src/resources/views/partials/navbar.blade.php
@@ -1,8 +1,4 @@
-<header class="container px-4 py-6 flex justify-between items-center">
-    <div class="uppercase font-bold text-2xl">
-        <a href="{{ url('') }}">{{ config('app.name') }}</a>
-    </div>
-
+<header class="container p-4 flex justify-end items-center">
     <div>
         Hey <span class="font-semibold">{{ auth()->user()->name ?? auth()->user()->username }}</span>!
     </div>

diff --git a/src/resources/views/type/show.blade.php b/src/resources/views/type/show.blade.php
@@ -3,12 +3,12 @@
     $instance = new $type;
 @endphp
 
-@extends('seamless::layout')
+@extends(config('seamless-admin.layout'))
 
 @section('title', "$name")
 
 @section('content')
-    <div class="container px-4 py-2">
+    <div class="container mx-auto px-4 py-2">
         <h2 class="text-2xl font-semibold">
             {{ $name }}
         </h2>
